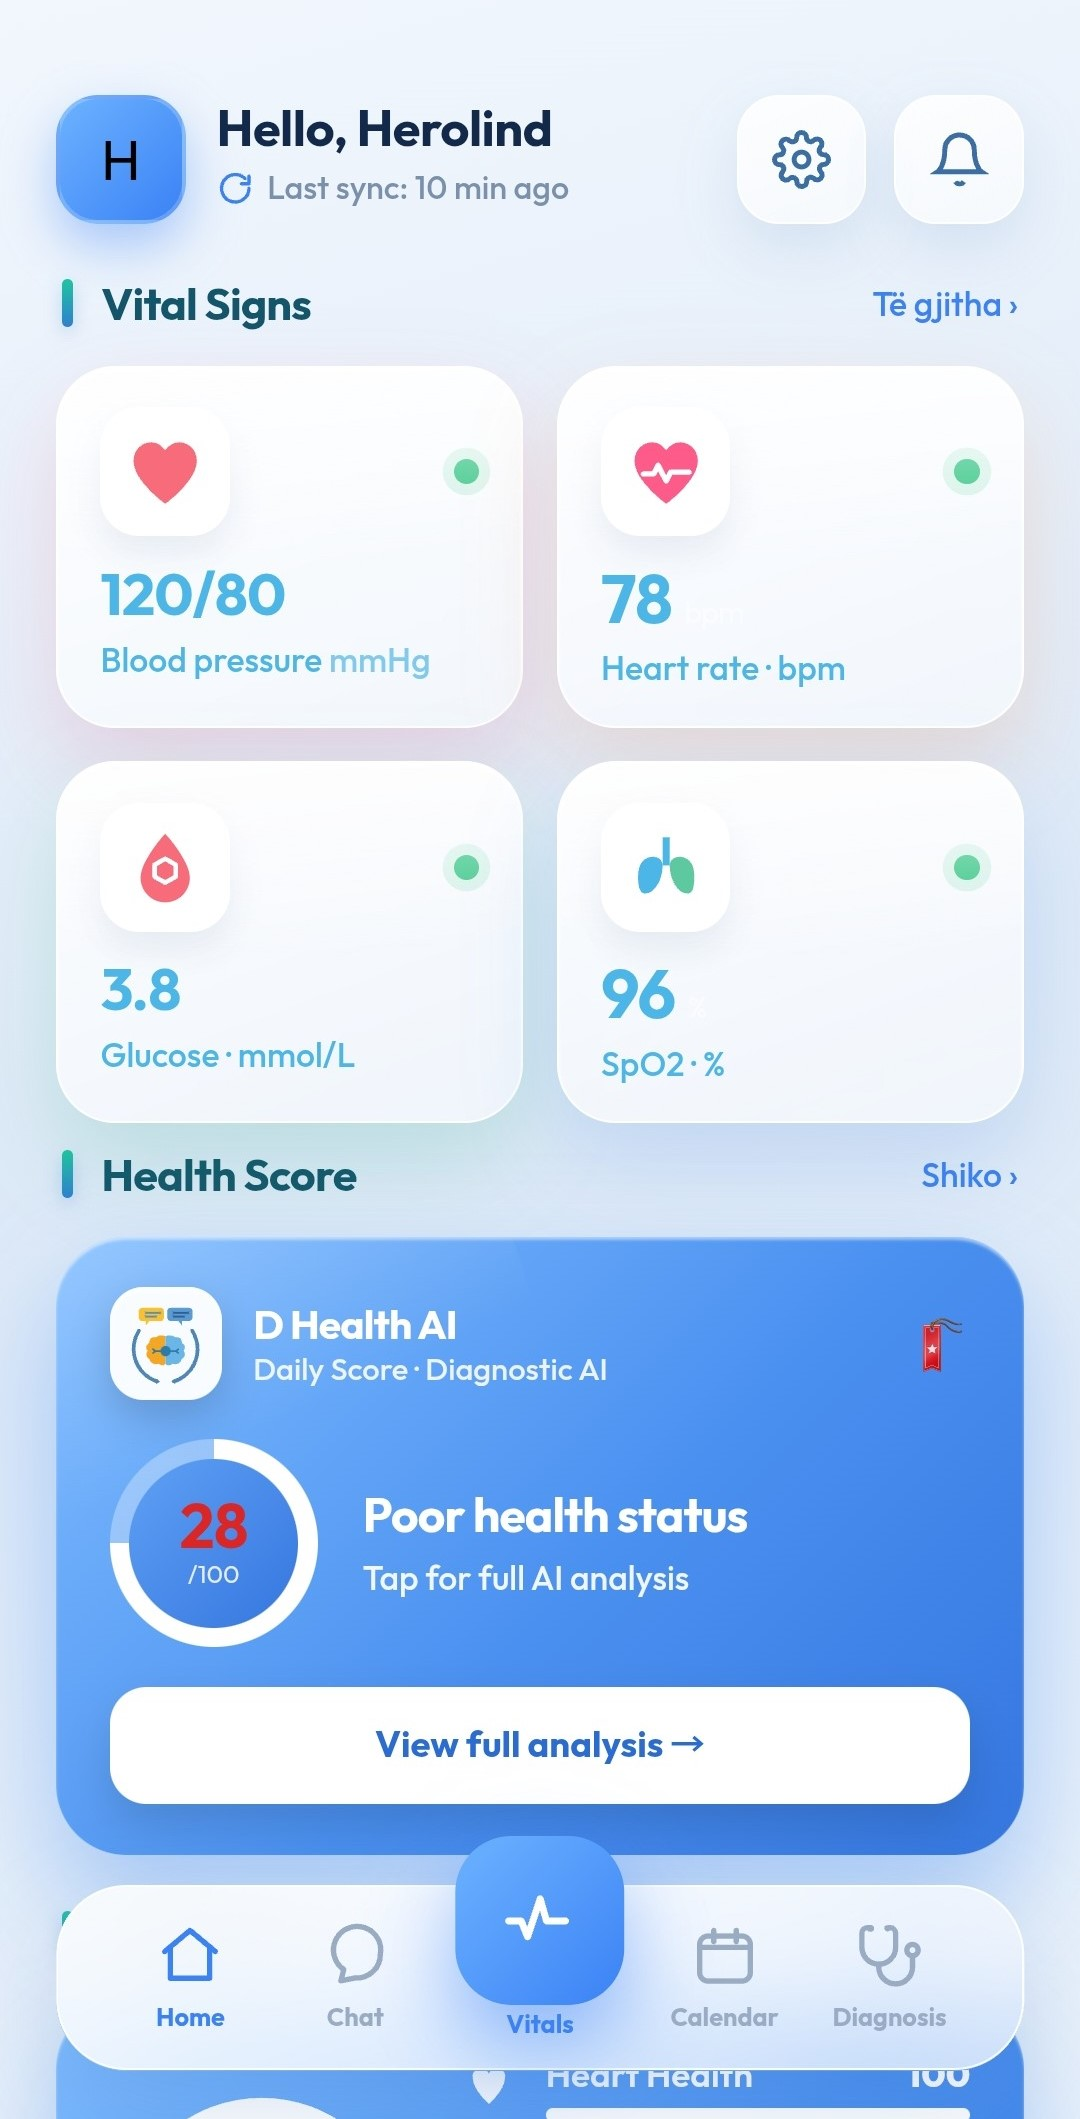
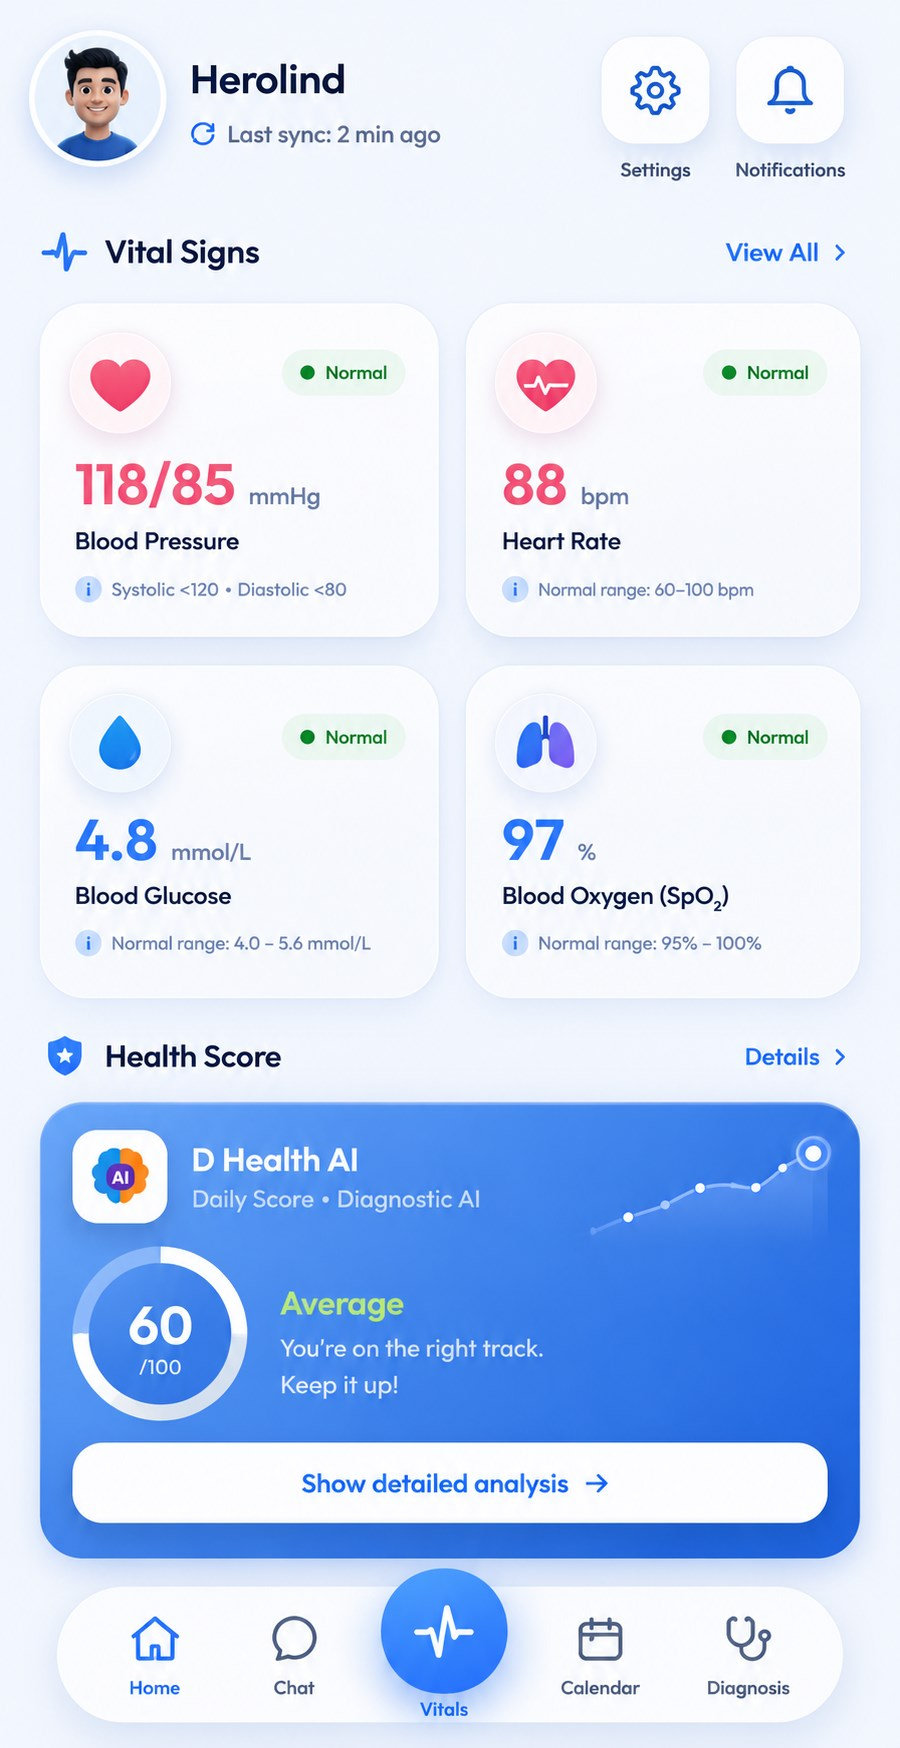
Landing: replace hero phone mockup with clearer Home-screen image (shot_home v2)

diff --git a/index.html b/index.html
@@ -404,7 +404,7 @@ footer .shell{position:relative;z-index:10;padding:6rem 1.25rem 2.5rem;}
       </div>
     </div>
     <div class="hero-r rv">
-      <div class="phone"><div class="notch"></div><div class="scr"><img src="assets/shot_home.jpg" alt="D Health app"></div></div>
+      <div class="phone"><div class="notch"></div><div class="scr"><img src="assets/shot_home.jpg?v=2" alt="D Health app"></div></div>
     </div>
   </div>
   <div class="shell"><div class="hero-status rv"><span>Building since 2024</span><span style="opacity:.5">Remote-first, worldwide</span><span>Scroll to explore ↓</span></div></div>